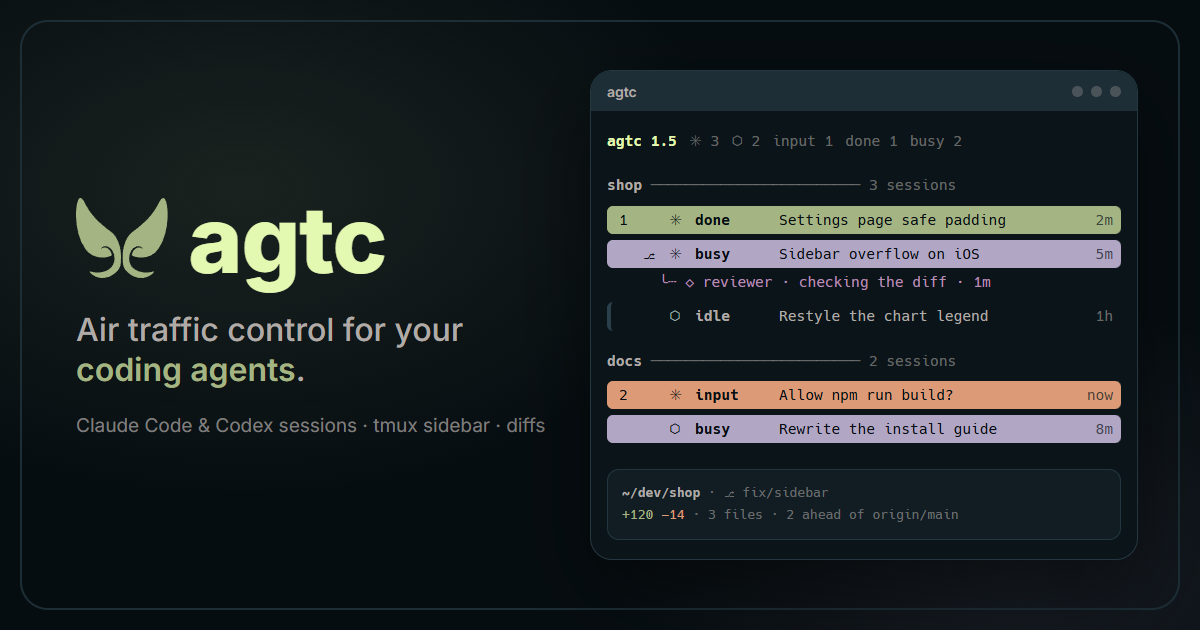
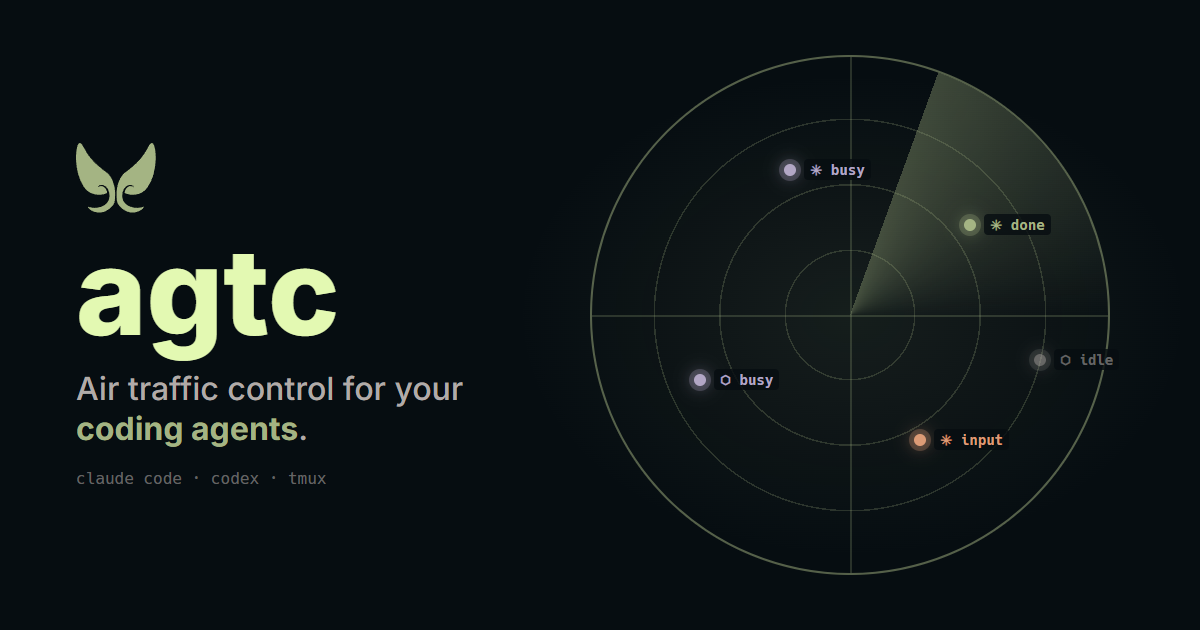
docs: share image as a radar scope of agent sessions
- own composition, same brand vibe as the other cards
- og.html is the source, render.sh re-renders it; panel.html no longer used

diff --git a/docs/og/og.html b/docs/og/og.html
@@ -9,81 +9,31 @@
   --bg-lightest: oklch(0.357 0.0326 230.47); --fg: oklch(0.745 0.0078 50.47); --dim: oklch(0.745 0.0078 50.47 / 0.55);
   --primary: oklch(0.745 0.0699 122.47); --secondary: oklch(0.745 0.0466 302.47); --accent: oklch(0.745 0.0932 50.47);
   --tertiary: oklch(0.745 0.0233 176.47); --cottontail: oklch(0.949 0.0939 122.47);
-  --info: oklch(0.745 0.1398 240); --success: oklch(0.745 0.1398 140); --warn: oklch(0.745 0.1398 70); --danger: oklch(0.745 0.1398 30);
-  --light-1: oklch(0.983 0.0086 86.47); --light-2: oklch(0.966 0.0172 86.47); --light-3: oklch(0.949 0.0259 86.47);
-  --light-4: oklch(0.8907 0.0566 86.47); --light-5: oklch(0.8325 0.0777 86.47); --light-6: oklch(0.7742 0.0723 86.47);
-  --sans: Inter, sans-serif; --mono: Hack, Consolas, monospace;
+  --mono: Hack, Consolas, monospace;
 }
 * { box-sizing: border-box; margin: 0; }
-body { width: 1200px; height: 630px; overflow: hidden; background: var(--bg-darkest); font-family: var(--sans); color: var(--fg); position: relative; }
-.og-glow { position: absolute; inset: 0; background: radial-gradient(60% 70% at 20% 30%, oklch(0.745 0.0699 122.47 / 0.13), transparent 70%), radial-gradient(50% 60% at 85% 90%, oklch(0.745 0.0466 302.47 / 0.10), transparent 70%); }
-.og-frame { position: absolute; inset: 20px; border: 2px solid var(--bg-light); border-radius: 28px; }
-.og-left { position: absolute; left: 76px; top: 0; bottom: 0; width: 470px; display: flex; flex-direction: column; justify-content: center; gap: 24px; }
-.og-brand { display: flex; align-items: center; gap: 0.22em; font-size: 92px; }
-.og-ears { height: 0.9em; width: auto; fill: var(--primary); flex-shrink: 0; }
-.og-left h1 { font-size: 1em; font-weight: 800; letter-spacing: -0.01em; color: var(--cottontail); line-height: 1; }
-.og-tag { font-size: 32px; font-weight: 500; line-height: 1.25; color: var(--fg); }
-.og-tag b { color: var(--primary); font-weight: 600; }
-.og-feat { font-size: 19px; color: oklch(0.745 0.0078 50.47 / 0.7); }
-.og-screen { position: absolute; left: 590px; top: 70px; width: 548px; height: 490px; border-radius: 22px; overflow: hidden; background: var(--bg-darker); border: 1px solid var(--bg-lighter); box-shadow: 0 30px 80px oklch(0 0 0 / 0.5); }
-.bar { height: 40px; display: flex; align-items: center; gap: 8px; padding: 0 16px; background: var(--bg-light); font-size: 14px; font-weight: 600; }
-.bar .sp { flex: 1; }
-.bar s { width: 11px; height: 11px; border-radius: 50%; background: oklch(0.745 0.0078 50.47 / 0.3); display: block; text-decoration: none; }
-.mono { font-family: var(--mono); }
-</style></head>
-<body>
-<div class="og-glow"></div>
-<div class="og-frame"></div>
-<div class="og-left">
-  <div class="og-brand"><svg class="og-ears" viewBox="0 0 200 180" aria-hidden="true"><path d="M 180.78951,9.4642023 C 167.26793,35.862516 153.19234,51.171994 121.3308,74.909274 c -9.83885,7.33009 -20.56801,28.781376 -19.83643,53.665226 0.48749,16.58156 -1.19704,24.10166 16.50142,37.51644 10.04673,7.61505 24.84456,10.73078 37.73503,5.21428 9.15926,-3.91972 14.86134,-10.24668 13.85759,-12.07669 -10.05575,3.27975 -20.2675,4.2772 -31.63206,0.60045 -7.22358,-2.33703 -22.34681,-8.63089 -22.43956,-28.48702 -0.0519,-11.10019 5.77576,-23.5906 15.97731,-26.01239 5.65284,-1.34195 12.04702,-0.34048 13.55827,5.86571 -0.89118,-1.49479 -5.42011,-5.00853 -11.88232,-3.18133 -5.71991,1.61731 -11.0719,8.87864 -11.92516,16.26466 5.76133,5.52566 39.66171,12.5901 57.75466,-13.52407 13.38833,-19.323816 19.37298,-44.595936 20.20369,-68.581476 0.84632,-24.436568 -4.89214,-59.107171 -18.41373,-32.7088617 z"/><path d="M 18.49504,9.4642043 C 32.01662,35.862514 46.09221,51.171994 77.95375,74.909274 c 9.83885,7.33009 20.56801,28.781376 19.83643,53.665226 -0.48749,16.58156 1.19704,24.10166 -16.50142,37.51644 -10.04673,7.61505 -24.84456,10.73078 -37.73503,5.21428 -9.15926,-3.91972 -14.86134,-10.24668 -13.85759,-12.07669 10.05575,3.27975 20.2675,4.2772 31.63206,0.60045 7.22358,-2.33703 22.34681,-8.63089 22.43956,-28.48702 0.0519,-11.10019 -5.77576,-23.5906 -15.97731,-26.01239 -5.65284,-1.34195 -12.04702,-0.34048 -13.55827,5.86571 0.89118,-1.49479 5.42011,-5.00853 11.88232,-3.18133 5.71991,1.61731 11.0719,8.87864 11.92516,16.26466 C 72.27833,129.80427 38.37795,136.86871 20.285,110.75454 6.8966696,91.430724 0.91201967,66.158604 0.08130967,42.173064 -0.76501033,17.736494 4.9734496,-16.93411 18.49504,9.4642043 Z"/></svg><h1>
-agtc</h1></div>
-  <p class="og-tag">Air traffic control for your <b>coding agents</b>.</p>
-  <p class="og-feat">Claude Code &amp; Codex sessions · tmux sidebar · diffs</p>
-</div>
-<div class="og-screen">
-<style>
-.term { padding: 16px 16px; font: 14.5px/1.95 var(--mono); }
-.hd { display: flex; gap: 12px; color: var(--dim); white-space: nowrap; }
-.hd b { color: var(--cottontail); }
-.g { margin-top: 16px; color: var(--dim); white-space: nowrap; overflow: hidden; }
-.g b { color: var(--fg); }
-.r { display: grid; grid-template-columns: 18px 20px 20px 78px minmax(0, 1fr) 34px; align-items: center; gap: 6px; padding: 0 8px; margin-top: 6px; border-radius: 6px; border-left: 4px solid var(--bg-lightest); white-space: nowrap; }
-.r span:nth-child(5) { overflow: hidden; text-overflow: ellipsis; }
-.r .t { color: var(--dim); text-align: right; }
-.st { font-weight: 600; }
-.r.done { background: var(--primary); border-left-color: var(--primary); color: var(--bg-darkest); }
-.r.done .t { color: oklch(0.2 0.02 230 / 0.7); }
-.r.busy { background: var(--secondary); border-left-color: var(--secondary); color: var(--bg-darkest); }
-.r.busy .t { color: oklch(0.2 0.02 230 / 0.7); }
-.r.input { background: var(--accent); border-left-color: var(--accent); color: var(--bg-darkest); }
-.r.input .t { color: oklch(0.2 0.02 230 / 0.7); }
-.r.idle { color: var(--fg); }
-.sub { padding-left: 52px; color: oklch(0.745 0.0699 330 / 0.9); white-space: nowrap; }
-.cl { color: var(--accent); } .cx { color: var(--tertiary); }
-.r.done .cl, .r.busy .cl, .r.input .cl, .r.done .cx, .r.busy .cx, .r.input .cx { color: inherit; }
-.det { margin: 10px 16px 0; padding: 12px 14px; border-radius: 12px; background: var(--bg-dark); border: 1px solid var(--bg-lighter); font: 13px/1.7 var(--mono); color: var(--dim); }
-.det b { color: var(--fg); font-weight: 600; }
-.det .p { color: var(--primary); } .det .m { color: var(--accent); }
-</style>
-  <div class="bar">agtc<span class="sp"></span><s></s><s></s><s></s></div>
-  <div class="term">
-    <div class="hd"><b>agtc 1.5</b><span>✳ 3</span><span>⬡ 2</span><span>input 1</span><span>done 1</span><span>busy 2</span></div>
-    <div class="g"><b>shop</b> ──────────────────────── 3 sessions</div>
-    <div class="r done"><span>1</span><span></span><span class="cl">✳</span><span class="st">done</span><span>Settings page safe padding</span><span class="t">2m</span></div>
-    <div class="r busy"><span></span><span>⎇</span><span class="cl">✳</span><span class="st">busy</span><span>Sidebar overflow on iOS</span><span class="t">5m</span></div>
-    <div class="sub">╰┄ ◇ reviewer · checking the diff · 1m</div>
-    <div class="r idle"><span></span><span></span><span class="cx">⬡</span><span class="st">idle</span><span>Restyle the chart legend</span><span class="t">1h</span></div>
-    <div class="g"><b>docs</b> ──────────────────────── 2 sessions</div>
-    <div class="r input"><span>2</span><span></span><span class="cl">✳</span><span class="st">input</span><span>Allow npm run build?</span><span class="t">now</span></div>
-    <div class="r busy"><span></span><span></span><span class="cx">⬡</span><span class="st">busy</span><span>Rewrite the install guide</span><span class="t">8m</span></div>
-  </div>
-  <div class="det"><b>~/dev/shop</b> · ⎇ fix/sidebar<br><span class="p">+120</span> <span class="m">−14</span> · 3 files · 2 ahead of origin/main</div>
-</div>
-<script>
-document.fonts.ready.then(() => {
-  const b = document.querySelector(".og-brand");
-  let s = 92;
-  while (b.scrollWidth > 470 && s > 48) b.style.fontSize = --s + "px";
-});
-</script>
+body { width: 1200px; height: 630px; overflow: hidden; background: var(--bg-darkest); font-family: Inter, sans-serif; color: var(--fg); position: relative; }
+.ears { fill: var(--primary); }
+.cot { color: var(--cottontail); }
+.glow { position: absolute; inset: 0; pointer-events: none; }
+
+.glow { background: radial-gradient(40% 55% at 71% 50%, oklch(0.745 0.0699 122.47 / 0.10), transparent 70%); }
+.scope { position: absolute; left: 850px; top: 315px; transform: translate(-50%, -50%); width: 520px; height: 520px; border-radius: 50%; border: 2px solid oklch(0.745 0.0699 122.47 / 0.5); background: repeating-radial-gradient(circle, transparent 0 64px, oklch(0.745 0.0699 122.47 / 0.22) 64px 65.5px); overflow: hidden; }
+.scope::before, .scope::after { content: ""; position: absolute; background: oklch(0.745 0.0699 122.47 / 0.22); }
+.scope::before { left: 50%; top: 0; bottom: 0; width: 1.5px; } .scope::after { top: 50%; left: 0; right: 0; height: 1.5px; }
+.sweep { position: absolute; inset: 0; border-radius: 50%; background: conic-gradient(from 20deg, oklch(0.745 0.0699 122.47 / 0.35), transparent 70deg); }
+.blip { position: absolute; transform: translate(-6px, -6px); display: flex; align-items: center; gap: 8px; }
+.blip i { width: 12px; height: 12px; border-radius: 50%; background: var(--c); box-shadow: 0 0 0 5px color-mix(in oklch, var(--c) 25%, transparent), 0 0 18px var(--c); }
+.blip span { font: 600 14px var(--mono); color: var(--c); background: oklch(0.153 0.014 230.47 / 0.8); padding: 1px 6px; border-radius: 4px; }
+.left { position: absolute; left: 76px; top: 0; bottom: 0; width: 470px; display: flex; flex-direction: column; justify-content: center; gap: 20px; }
+.left .ears { width: 80px; }
+h1 { font-size: 120px; font-weight: 800; color: var(--cottontail); line-height: 0.95; }
+.sub { font-size: 32px; font-weight: 500; line-height: 1.25; }
+.sub b { color: var(--primary); }
+.feat { font: 16px var(--mono); color: var(--dim); }
+
+</style></head><body>
+<div class="glow"></div>
+<div class="scope"><div class="sweep"></div></div><div class="blip" style="left:970px;top:220px;--c:var(--primary)"><i></i><span>✳ done</span></div><div class="blip" style="left:790px;top:165px;--c:var(--secondary)"><i></i><span>✳ busy</span></div><div class="blip" style="left:700px;top:375px;--c:var(--secondary)"><i></i><span>⬡ busy</span></div><div class="blip" style="left:920px;top:435px;--c:var(--accent)"><i></i><span>✳ input</span></div><div class="blip" style="left:1040px;top:355px;--c:var(--dim)"><i></i><span>⬡ idle</span></div>
+<div class="left"><svg class="ears" viewBox="0 0 200 180"><path d="M 180.78951,9.4642023 C 167.26793,35.862516 153.19234,51.171994 121.3308,74.909274 c -9.83885,7.33009 -20.56801,28.781376 -19.83643,53.665226 0.48749,16.58156 -1.19704,24.10166 16.50142,37.51644 10.04673,7.61505 24.84456,10.73078 37.73503,5.21428 9.15926,-3.91972 14.86134,-10.24668 13.85759,-12.07669 -10.05575,3.27975 -20.2675,4.2772 -31.63206,0.60045 -7.22358,-2.33703 -22.34681,-8.63089 -22.43956,-28.48702 -0.0519,-11.10019 5.77576,-23.5906 15.97731,-26.01239 5.65284,-1.34195 12.04702,-0.34048 13.55827,5.86571 -0.89118,-1.49479 -5.42011,-5.00853 -11.88232,-3.18133 -5.71991,1.61731 -11.0719,8.87864 -11.92516,16.26466 5.76133,5.52566 39.66171,12.5901 57.75466,-13.52407 13.38833,-19.323816 19.37298,-44.595936 20.20369,-68.581476 0.84632,-24.436568 -4.89214,-59.107171 -18.41373,-32.7088617 z"/><path d="M 18.49504,9.4642043 C 32.01662,35.862514 46.09221,51.171994 77.95375,74.909274 c 9.83885,7.33009 20.56801,28.781376 19.83643,53.665226 -0.48749,16.58156 1.19704,24.10166 -16.50142,37.51644 -10.04673,7.61505 -24.84456,10.73078 -37.73503,5.21428 -9.15926,-3.91972 -14.86134,-10.24668 -13.85759,-12.07669 10.05575,3.27975 20.2675,4.2772 31.63206,0.60045 7.22358,-2.33703 22.34681,-8.63089 22.43956,-28.48702 0.0519,-11.10019 -5.77576,-23.5906 -15.97731,-26.01239 -5.65284,-1.34195 -12.04702,-0.34048 -13.55827,5.86571 0.89118,-1.49479 5.42011,-5.00853 11.88232,-3.18133 5.71991,1.61731 11.0719,8.87864 11.92516,16.26466 C 72.27833,129.80427 38.37795,136.86871 20.285,110.75454 6.8966696,91.430724 0.91201967,66.158604 0.08130967,42.173064 -0.76501033,17.736494 4.9734496,-16.93411 18.49504,9.4642043 Z"/></svg><h1>agtc</h1><p class="sub">Air traffic control for your <b>coding agents</b>.</p><p class="feat">claude code · codex · tmux</p></div>
 </body></html>
